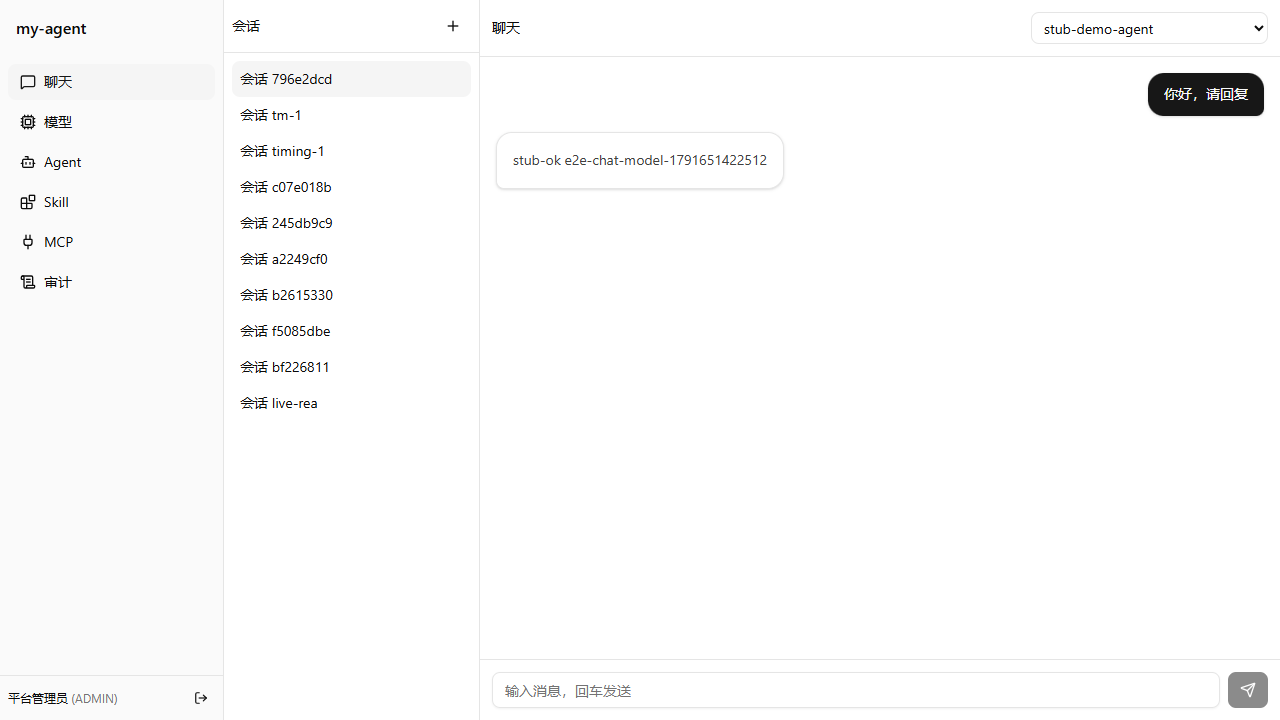
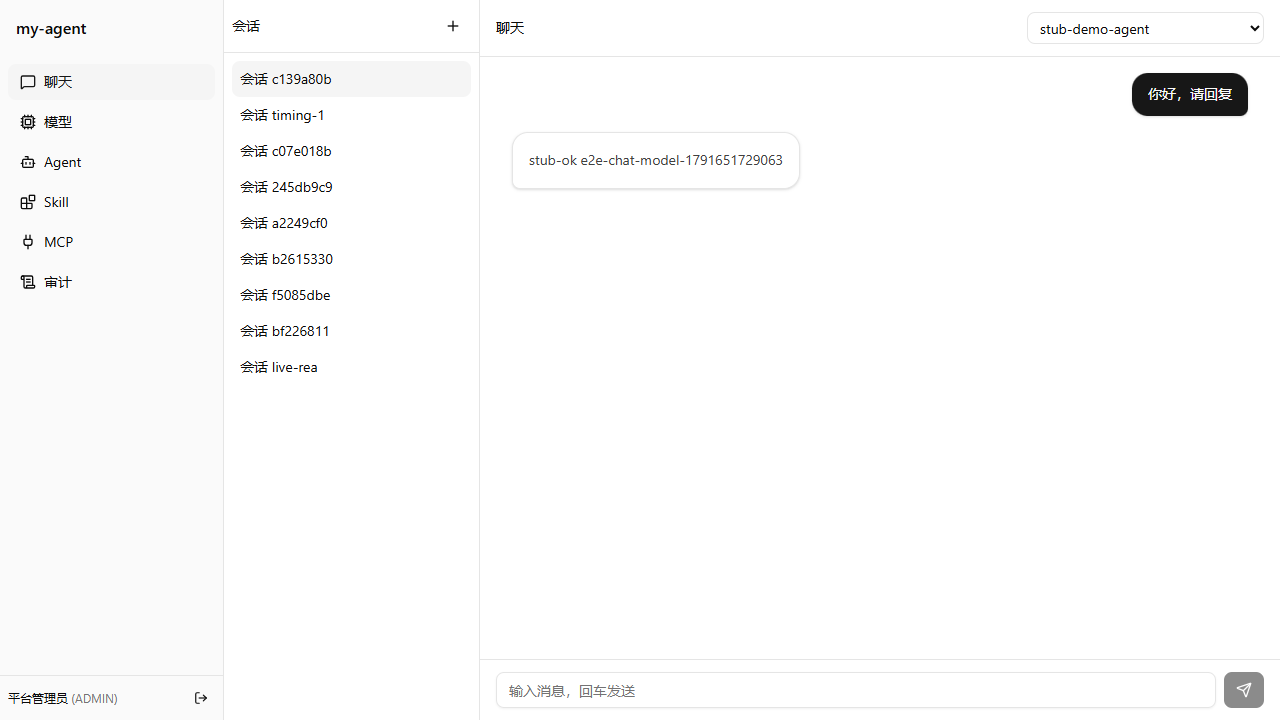
style(P4): 会话区与输入框收窄并居中
用户反馈：会话区太宽不好看，输入框要一致。

- 消息区与输入区改为同一个居中列：mx-auto w-full max-w-3xl（768px）；
  header/错误提示也套同一列，三者左右边缘对齐。
- 加 data-testid=chat-column 便于测量与断言。
- 新增布局用例（1920 宽窗口下）：消息列宽 = 768 且 < 可用宽度 70%；
  消息列与输入列的中心均与所在区域中心相差 <= 2px（真正居中）；输入列与消息列等宽。
  实测：section=1440，两列均 768、center=1200、delta=0。
- 实测：e2e 12 passed（chat 4 + admin 7 + audit 1）；vitest 20 passed；lint 0 error / build 成功。
- 证据：docs/acceptance/chat-layout-wide.png

diff --git a/frontend/src/pages/chat/ChatPage.tsx b/frontend/src/pages/chat/ChatPage.tsx
@@ -375,46 +375,53 @@ export default function ChatPage() {
       </aside>
 
       <section className="flex min-w-0 flex-1 flex-col">
-        <header className="flex items-center gap-2 border-b p-3">
-          <span className="text-sm font-medium">聊天</span>
-          {chat.status === "running" && <Badge variant="secondary">生成中…</Badge>}
-          {chat.status === "error" && <Badge variant="destructive">出错</Badge>}
-          <select
-            className="border-input ml-auto h-8 rounded-md border bg-transparent px-2 text-sm"
-            value={agentId ?? ""}
-            onChange={(e) => setAgentId(e.target.value ? Number(e.target.value) : null)}
-            disabled={!!session}
-            title={session ? "已有会话时不可切换 Agent" : "选择 Agent"}
-          >
-            {agents.length === 0 && <option value="">（暂无 Agent）</option>}
-            {agents.map((a) => (
-              <option key={a.id} value={a.id}>
-                {a.name}
-              </option>
-            ))}
-          </select>
+        <header className="border-b p-3">
+          <div className="mx-auto flex w-full max-w-3xl items-center gap-2">
+            <span className="text-sm font-medium">聊天</span>
+            {chat.status === "running" && <Badge variant="secondary">生成中…</Badge>}
+            {chat.status === "error" && <Badge variant="destructive">出错</Badge>}
+            <select
+              className="border-input ml-auto h-8 rounded-md border bg-transparent px-2 text-sm"
+              value={agentId ?? ""}
+              onChange={(e) => setAgentId(e.target.value ? Number(e.target.value) : null)}
+              disabled={!!session}
+              title={session ? "已有会话时不可切换 Agent" : "选择 Agent"}
+            >
+              {agents.length === 0 && <option value="">（暂无 Agent）</option>}
+              {agents.map((a) => (
+                <option key={a.id} value={a.id}>
+                  {a.name}
+                </option>
+              ))}
+            </select>
+          </div>
         </header>
 
-        <div className="flex-1 space-y-4 overflow-auto p-4">
-          {chat.items.length === 0 && (
-            <Card className="text-muted-foreground p-6 text-center text-sm">
-              输入一句话开始对话。回复会以流式气泡出现。
-            </Card>
-          )}
-          {renderItemNodes()}
-          <div ref={bottomRef} />
+        <div className="flex-1 overflow-auto">
+          <div data-testid="chat-column" className="mx-auto w-full max-w-3xl space-y-4 p-4">
+            {chat.items.length === 0 && (
+              <Card className="text-muted-foreground p-6 text-center text-sm">
+                输入一句话开始对话。回复会以流式气泡出现。
+              </Card>
+            )}
+            {renderItemNodes()}
+            <div ref={bottomRef} />
+          </div>
         </div>
 
         {error && (
-          <div className="border-destructive/40 bg-destructive/10 mx-4 mb-2 rounded-md border p-2 text-sm">
-            {error}
-            <Button variant="link" size="sm" onClick={() => void send()}>
-              重试
-            </Button>
+          <div className="mx-auto w-full max-w-3xl px-4 pb-2">
+            <div className="border-destructive/40 bg-destructive/10 rounded-md border p-2 text-sm">
+              {error}
+              <Button variant="link" size="sm" onClick={() => void send()}>
+                重试
+              </Button>
+            </div>
           </div>
         )}
 
-        <div className="flex items-center gap-2 border-t p-3">
+        <div className="border-t p-3">
+          <div className="mx-auto flex w-full max-w-3xl items-center gap-2">
           <Input
             value={input}
             placeholder="输入消息，回车发送"
@@ -430,6 +437,7 @@ export default function ChatPage() {
           <Button onClick={() => void send()} disabled={busy || !input.trim()}>
             <Send className="size-4" />
           </Button>
+          </div>
         </div>
       </section>
     </div>

diff --git a/frontend/e2e/chat.spec.ts b/frontend/e2e/chat.spec.ts
@@ -191,6 +191,35 @@ test("多轮对话：发第二条不会清空之前的对话（回归）", async
   await page.screenshot({ path: "../docs/acceptance/chat-bubbles.png", fullPage: true });
 });
 
+test("布局：会话区收窄并居中，输入框与消息区同宽同位置", async ({ page, request }) => {
+  // 用一个宽窗口，否则看不出“太宽”的问题
+  await page.setViewportSize({ width: 1920, height: 1080 });
+  const { agentId } = await createStubAgent(request, Date.now());
+  await loginAndSelectAgent(page, agentId);
+
+  const section = page.locator("main > div > section");
+  const sBox = (await section.boundingBox())!;
+  const sCenter = sBox.x + sBox.width / 2;
+
+  const msgCol = page.locator('[data-testid="chat-column"]');
+  const msgBox = (await msgCol.boundingBox())!;
+  const inputCol = page.getByPlaceholder("输入消息，回车发送").locator("xpath=..");
+  const inBox = (await inputCol.boundingBox())!;
+
+  // 收窄：远小于可用宽度（max-w-3xl = 768）
+  expect(msgBox.width, "消息区应明显窄于可用宽度").toBeLessThan(sBox.width * 0.7);
+  expect(Math.round(msgBox.width)).toBe(768);
+
+  // 居中：两者中心与所在区域中心一致（容差 2px）
+  expect(Math.abs(sCenter - (msgBox.x + msgBox.width / 2))).toBeLessThanOrEqual(2);
+  expect(Math.abs(sCenter - (inBox.x + inBox.width / 2))).toBeLessThanOrEqual(2);
+
+  // 输入框与消息区同宽
+  expect(Math.round(inBox.width)).toBe(Math.round(msgBox.width));
+
+  await page.screenshot({ path: "../docs/acceptance/chat-layout-wide.png" });
+});
+
 test("后端不可用时显示错误态且不白屏", async ({ page }) => {
   await page.goto("/login");
   await page.getByLabel("密码").fill("Admin@123");
